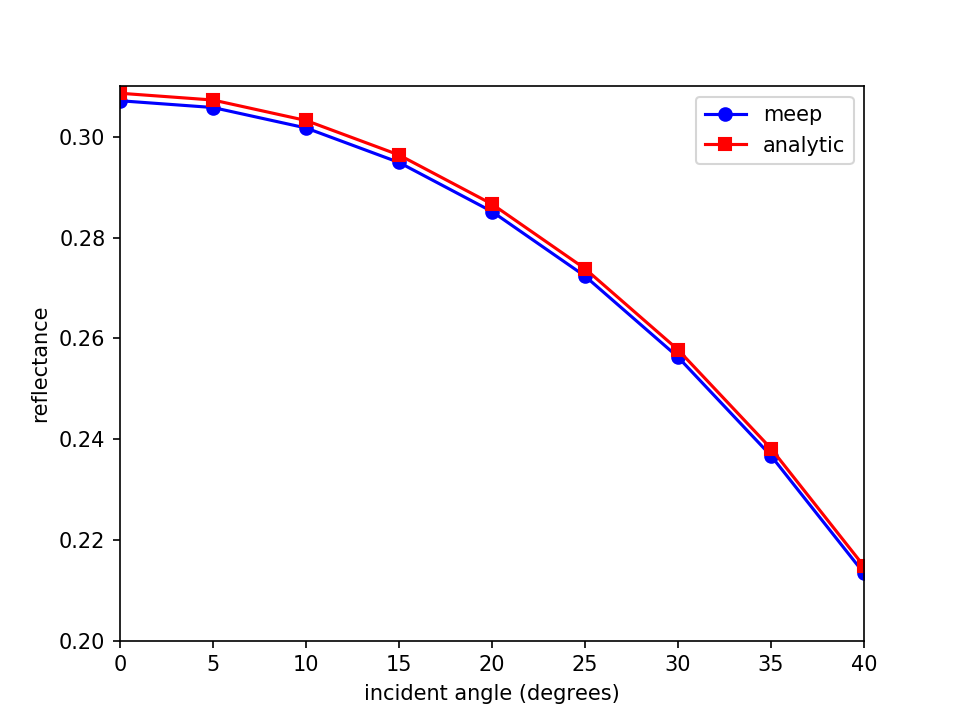
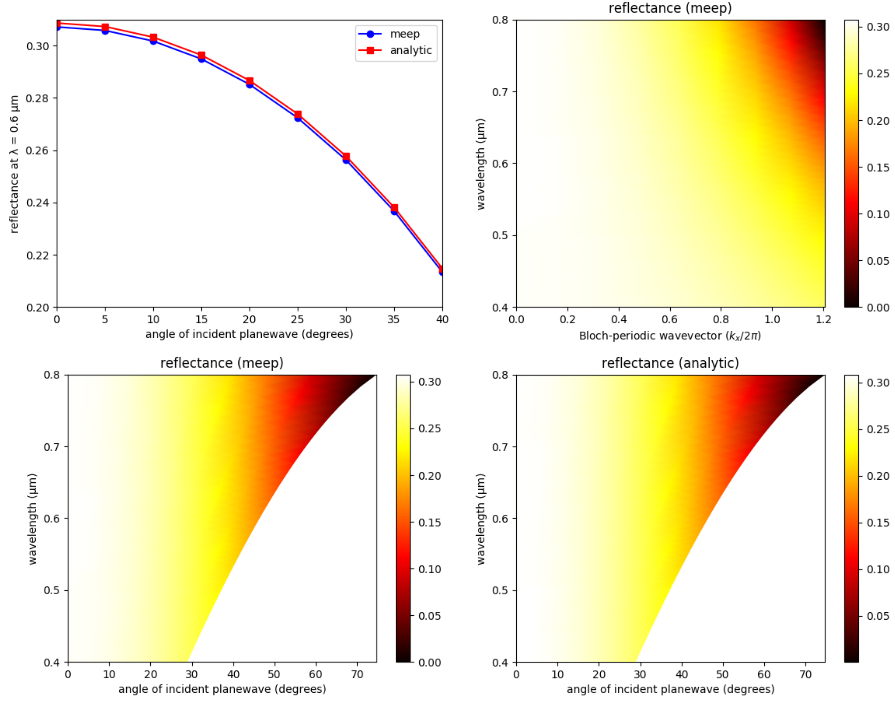
update angular reflectance spectrum tutorial

diff --git a/python/examples/refl-angular.py b/python/examples/refl-angular.py
@@ -7,14 +7,19 @@ def main(args):
     resolution = args.res
 
     dpml = 1.0
-    sz = args.sz + 2*dpml
+    sz = 10
+    sz = 10 + 2*dpml
     cell_size = mp.Vector3(0,0,sz)
     pml_layers = [ mp.PML(dpml) ]
-    
-    wvl_cen = 0.6
-    fcen = 1/wvl_cen
-    df = 0.2*fcen
 
+    wvl_min = 0.4
+    wvl_max = 0.8
+    fmin = 1/wvl_max
+    fmax = 1/wvl_min
+    fcen = 0.5*(fmin+fmax)
+    df = fmax-fmin
+    nfreq = 50
+    
     # rotation angle of source: CCW relative to y axis
     theta_r = math.radians(args.theta)
 
@@ -36,7 +41,7 @@ def main(args):
                         resolution=resolution)
 
     refl_fr = mp.FluxRegion(center=mp.Vector3(0,0,-0.25*sz))
-    refl = sim.add_flux(fcen, 0, 1, refl_fr)
+    refl = sim.add_flux(fcen, df, nfreq, refl_fr)
     
     sim.run(until_after_sources=mp.stop_when_fields_decayed(50, mp.Ex, mp.Vector3(0,0,-0.5*sz+dpml), 1e-9))
 
@@ -54,19 +59,20 @@ def main(args):
                         dimensions=dimensions,
                         resolution=resolution)
 
-    refl = sim.add_flux(fcen, 0, 1, refl_fr)
+    refl = sim.add_flux(fcen, df, nfreq, refl_fr)
     sim.load_minus_flux_data(refl, empty_data)
 
     sim.run(until_after_sources=mp.stop_when_fields_decayed(50, mp.Ex, mp.Vector3(0,0,-0.5*sz+dpml), 1e-9))
 
     refl_flux = mp.get_fluxes(refl)
-
-    print("refl:, {}, {}".format(args.theta,-refl_flux[0]/empty_flux[0]))
+    freqs = mp.get_flux_freqs(refl)
+    
+    for i in range(0,nfreq):
+        print("refl:, {}, {}, {}, {}".format(k.x,freqs[i],math.degrees(math.asin(k.x/freqs[i])),-refl_flux[i]/empty_flux[i]))
     
 if __name__ == '__main__':
     parser = argparse.ArgumentParser()
     parser.add_argument('-res', type=int, default=200, help='resolution (default: 200 pixels/um)')
-    parser.add_argument('-sz', type=float, default=10, help='cell size (default: 10 um)')
     parser.add_argument('-theta', type=float, default=0, help='angle of incident planewave (default: 0 degrees)')
     args = parser.parse_args()
     main(args)

diff --git a/doc/docs/Python_Tutorials/Basics.md b/doc/docs/Python_Tutorials/Basics.md
@@ -424,11 +424,13 @@ Again, we must run both simulations in order to get the normalization right. The
 Angular Reflectance Spectrum of a Planar Interface
 --------------------------------------------------
 
-We turn to a similar but slightly different example for which there exists an analytic solution via the [Fresnel equations](https://en.wikipedia.org/wiki/Fresnel_equations): computing the reflectance at a single wavelength of a planar, air-dielectric interface for an incident planewave source over a range of angles. Similar to the previous example, we will need to run two simulations: (1) an empty computational cell (n=1 everywhere) to obtain the incident flux, and (2) with the dielectric interface (n=3.5) to obtain the reflected flux. Each angle of the incident source requires a separate set of simulations.
+We turn to a similar but slightly different example for which there exists an analytic solution via the [Fresnel equations](https://en.wikipedia.org/wiki/Fresnel_equations): computing the broadband reflectance of a planar air-dielectric interface for an incident planewave over a range of angles. Similar to the previous example, we will need to run two simulations: (1) an empty computational cell with air/vacuum everywhere to obtain the incident flux, and (2) with the dielectric (n=3.5) interface to obtain the reflected flux. Each angle of the incident planewave source requires a separate set of simulations.
 
-A 1d computational cell must be used since a higher-dimensional cell will introduce [artificial modes due to band folding](../FAQ/#why-are-there-strange-peaks-in-my-reflectancetransmittance-spectrum-when-modeling-planar-or-periodic-structures). In Meep, a 1d cell must be along the $z$ direction with only the $E_x$ and $H_y$ field components permitted. We will use a Gaussian source with center frequency ω corresponding to a wavelength of 0.6 μm at which we will compute the reflectance. Unlike a [continuous-wave](../Python_User_Interface/#continuoussource) (CW) source, a pulsed source turns off. This enables a termination condition of when there are no fields left in the computational cell (due to absorption by the PMLs) via the [run function](../Python_User_Interface/#run-functions) `stop_when_fields_decayed`.
+A 1d computational cell must be used since a higher-dimensional cell will introduce [artificial modes due to band folding](../FAQ/#why-are-there-strange-peaks-in-my-reflectancetransmittance-spectrum-when-modeling-planar-or-periodic-structures). In Meep, a 1d cell must be along the $z$ direction with only the $E_x$ and $H_y$ field components permitted. We will use a Gaussian source spanning visible wavelengths of 0.4 to 0.8 μm. Unlike a [continuous-wave](../Python_User_Interface/#continuoussource) (CW) source, a pulsed source turns off. This enables a termination condition of when there are no fields left in the computational cell (due to absorption by the PMLs) via the [run function](../Python_User_Interface/#run-functions) `stop_when_fields_decayed`, similar again to the previous example.
 
-Creating an oblique planewave source typically requires specifying two parameters: (1) the Bloch-periodic wavevector $\vec{k}$ via `k_point`, and (2) the source amplitude function `amp_func` to set the $e^{i\vec{k} \cdot \vec{r}}$ spatial dependence (for position vector $\vec{r}$). Since this is a 1d simulation and the source is just a single pixel, it is not necessary to specify the source amplitude (for reference, see this [2d example](https://github.com/stevengj/meep/blob/master/python/examples/pw-source.py)). The Bloch-periodic wavevector is specified according to the dispersion relation for a planewave in a homogeneous medium (with index n): $\omega=c|\vec{k}|/n$. As the source in this example is incident from air, the magnitude of the wavevector is simply equal to ω (in Meep, this excludes the 2π factor). Note that [any broadband source is incident at a given angle for only a *single* frequency component](../FAQ/#how-do-i-set-up-an-oblique-planewave-source). Computing the reflectance at multiple angles therefore requires separate simulations. The plane of incidence which contains $\vec{k}$ and the surface normal vector is $xz$. The source angle is defined in degrees counterclockwise (CCW) relative to the $y$ axis. In this configuration, a current source with $E_x$ polarization lies in the plane of incidence and corresponds to the convention of $P$-polarization.
+Creating an oblique planewave source typically requires specifying two parameters: (1) for periodic structures, the Bloch-periodic wavevector $\vec{k}$ via `k_point`, and (2) the source amplitude function `amp_func` for setting the $e^{i\vec{k} \cdot \vec{r}}$ spatial dependence ($\vec{r}$ is the position vector). Since we have a 1d cell and the source is at a single point, it is not necessary to specify the source amplitude (see this [2d example](https://github.com/stevengj/meep/blob/master/python/examples/pw-source.py) for how this is done). The magnitude of the Bloch-periodic wavevector is specified according to the dispersion relation formula for a planewave in homogeneous media with index n: $\omega=c|\vec{k}|/n$. As the source in this example is incident from air, $|\vec{k}|$ is simply equal to the frequency ω (in Meep, this excludes the 2π factor). Note that a fixed wavevector is only applicable to a single frequency. Thus any broadband source is incident at a given angle for only a *single* frequency. This is described in more detail in Section 4.5 ("Efficiency Frequency-Angle Coverage") in [Chapter 4](https://arxiv.org/abs/1301.5366) ("Electromagnetic Wave Source Conditions") of the book [Advances in FDTD Computational Electrodynamics: Photonics and Nanotechnology](https://www.amazon.com/Advances-FDTD-Computational-Electrodynamics-Nanotechnology/dp/1608071707).
+
+In this example, the plane of incidence which contains $\vec{k}$ and the surface normal vector is $xz$. The source angle is defined in degrees in the counterclockwise (CCW) direction around the $y$ axis with 0 degrees along the +$z$ axis. A current source with $E_x$ polarization lies in the plane of incidence and corresponds to the convention of $P$-polarization.
 
 The simulation script is below and in [refl-angular.py](https://github.com/stevengj/meep/blob/master/python/examples/refl-angular.py)
 
@@ -442,14 +444,19 @@ def main(args):
     resolution = args.res
 
     dpml = 1.0
-    sz = args.sz + 2*dpml
+    sz = 10
+    sz = 10 + 2*dpml
     cell_size = mp.Vector3(0,0,sz)
     pml_layers = [ mp.PML(dpml) ]
-    
-    wvl_cen = 0.6
-    fcen = 1/wvl_cen
-    df = 0.2*fcen
 
+    wvl_min = 0.4
+    wvl_max = 0.8
+    fmin = 1/wvl_max
+    fmax = 1/wvl_min
+    fcen = 0.5*(fmin+fmax)
+    df = fmax-fmin
+    nfreq = 50
+    
     # rotation angle of source: CCW relative to y axis
     theta_r = math.radians(args.theta)
 
@@ -471,7 +478,7 @@ def main(args):
                         resolution=resolution)
 
     refl_fr = mp.FluxRegion(center=mp.Vector3(0,0,-0.25*sz))
-    refl = sim.add_flux(fcen, 0, 1, refl_fr)
+    refl = sim.add_flux(fcen, df, nfreq, refl_fr)
     
     sim.run(until_after_sources=mp.stop_when_fields_decayed(50, mp.Ex, mp.Vector3(0,0,-0.5*sz+dpml), 1e-9))
 
@@ -489,69 +496,103 @@ def main(args):
                         dimensions=dimensions,
                         resolution=resolution)
 
-    refl = sim.add_flux(fcen, 0, 1, refl_fr)
+    refl = sim.add_flux(fcen, df, nfreq, refl_fr)
     sim.load_minus_flux_data(refl, empty_data)
 
     sim.run(until_after_sources=mp.stop_when_fields_decayed(50, mp.Ex, mp.Vector3(0,0,-0.5*sz+dpml), 1e-9))
 
     refl_flux = mp.get_fluxes(refl)
-
-    print("refl:, {}, {}".format(args.theta,-refl_flux[0]/empty_flux[0]))
+    freqs = mp.get_flux_freqs(refl)
+    
+    for i in range(0,nfreq):
+        print("refl:, {}, {}, {}, {}".format(k.x,freqs[i],math.degrees(math.asin(k.x/freqs[i])),-refl_flux[i]/empty_flux[i]))
     
 if __name__ == '__main__':
     parser = argparse.ArgumentParser()
     parser.add_argument('-res', type=int, default=200, help='resolution (default: 200 pixels/um)')
-    parser.add_argument('-sz', type=float, default=10, help='cell size (default: 10 um)')
     parser.add_argument('-theta', type=float, default=0, help='angle of incident planewave (default: 0 degrees)')
     args = parser.parse_args()
     main(args)
 ```
 
-The simulation script above computes and prints to standard output the reflectance at a single, fixed wavelength. There are three argument parameters which can be passed to the script at runtime: the resolution of the grid, the size of the computational cell (excluding the PMLs), and the angle of the incident planwave source. The following Bash shell script runs the simulation for the wavelength range of 0$^\circ$ to 40$^\circ$ in increments of 5$^\circ$, pipes the output to a file, and extracts the reflectance data into a separate file.
+The simulation script above computes and prints to standard output the reflectance at each frequency. Also included in the output is the wavevector component $k_x$ (the $k_z$ component is irrelevant since it is in the direction of the PML) and the corresponding angle for the ($k_x$, ω) pair: for those frequencies not equal to the center frequency of the source, this is *not* the same as the angle of the incident planewave, but rather $sin^{-1}(k_x/\omega)$. There are two argument parameters which can be passed to the script at runtime: the resolution of the grid and the angle of the incident planwave.
+
+The following Bash shell script runs the simulation for the wavelength range of 0$^\circ$ to 40$^\circ$ in increments of 5$^\circ$. For each run, the script pipes the output to one file and extracts the reflectance data to another file.
 
 ```sh
 #!/bin/bash
 
 for i in `seq 0 5 40`; do
-    python refl1d.py -theta $i |tee -a flux.out;
+    python refl-angular.py -theta $i |tee -a flux_t${i}.out;
+    grep refl: flux_t${i}.out |cut -d , -f2- > flux_t${i}.dat
 done
-
-grep refl: flux.out |cut -d , -f2- > flux.dat
 ```
 
-A plot of the angular reflectance spectrum based on the simulated data and the analytic [Fresnel equations](https://en.wikipedia.org/wiki/Fresnel_equations) is generated using the Python script below. The plot is shown in the accompanying figure. There is agreement between the simulated and analytic results. 
+Two-dimensional plots of the angular reflectance spectrum based on the simulated data and the analytic [Fresnel equations](https://en.wikipedia.org/wiki/Fresnel_equations) are generated using the Python script below. The plots are shown in the accompanying figure. The top left inset shows the simulated and analytic reflectance spectra at a wavelength of 0.6 μm. The top right inset shows the simulated reflectance spectrum with the Bloch-periodic wavevector used in the simulation: $R(\lambda, k_x)$. The lower left inset is a transformation of $R(\lambda, k_x)$ into $R(\lambda, \theta)$. Note how the range of angles depends on the wavelength. The lower right inset is the analytic reflectance spectrum computed using the Fresnel equations based on the θ values from the previous inset. There is agreement between the simulated and analytic results.
 
 ```py
 import numpy as np
 import matplotlib.pyplot as plt
 import math
 
-f = np.genfromtxt("flux.dat", delimiter=",")
+theta_in = np.arange(0,45,5)
+kxs = np.empty((50, theta_in.size))
+thetas = np.empty((50, theta_in.size))
+Rmeep = np.empty((50, theta_in.size))
 
-thetas = f[:,0]
-R_meep = f[:,1]
+for j in range(0,theta_in.size):
+  f = np.genfromtxt("flux_t{}.dat".format(theta_in[j]), delimiter=",")
+  kxs[:,j] = f[:,0]
+  thetas[:,j] = f[:,2]
+  Rmeep[:,j] = f[:,3]
+  
+import numpy.matlib  
+wvl = 1./f[:,1]
+wvls = np.matlib.repmat(np.reshape(wvl, (wvl.size,1)),1,theta_in.size)
+
+plt.figure(dpi=100)
+plt.pcolormesh(kxs,wvls,Rmeep,cmap='hot',shading='gouraud')
+plt.axis([kxs[0,0], kxs[0,-1], wvl[-1], wvl[0]])
+plt.yticks([t for t in np.arange(0.4,0.9,0.1)])
+plt.xlabel("Bloch-periodic wavevector ($k_x/2π$)")
+plt.ylabel("wavelength (μm)")
+plt.title("reflectance (meep)")
+plt.colorbar()
+plt.show()
+
+plt.figure(dpi=100)
+plt.pcolormesh(thetas,wvls,Rmeep,cmap='hot',shading='gouraud')
+plt.axis([thetas.min(), thetas.max(), wvl[-1], wvl[0]])
+plt.yticks([t for t in np.arange(0.4,0.9,0.1)])
+plt.xlabel("angle of incident planewave (degrees)")
+plt.ylabel("wavelength (μm)")
+plt.title("reflectance (meep)")
+plt.colorbar()
+plt.show()
 
 n1=1
 n2=3.5
-
 theta_out = lambda theta_in: math.asin(n1*math.sin(theta_in)/n2)
-
 # P polarization
-R_fresnel = lambda theta_in: math.fabs((n1*math.cos(theta_out(theta_in))-n2*math.cos(theta_in))/(n1*math.cos(theta_out(theta_in))+n2*math.cos(theta_in)))**2
+Rfresnel = lambda theta_in: math.fabs((n1*math.cos(theta_out(theta_in))-n2*math.cos(theta_in))/(n1*math.cos(theta_out(theta_in))+n2*math.cos(theta_in)))**2
 
-R_analytic = [ R_fresnel(math.radians(i)) for i in thetas ]
+Ranalytic = np.empty((50, theta_in.size))
+for m in range(0,wvl.size):
+    for n in range(0,theta_in.size):
+        Ranalytic[m,n] = Rfresnel(math.radians(thetas[m,n]))
 
-plt.plot(thetas,R_meep,'bo-',label='meep')
-plt.plot(thetas,R_analytic,'rs-',label='analytic')
-plt.xlabel("incident angle (degrees)")
-plt.ylabel("reflectance")
-plt.axis([0, 40, 0.20, 0.31])
-plt.legend(loc='upper right')
+plt.figure(dpi=100)        
+plt.pcolormesh(thetas,wvls,Ranalytic,cmap='hot',shading='gouraud')
+plt.axis([thetas.min(), thetas.max(), wvl[-1], wvl[0]])
+plt.yticks([t for t in np.arange(0.4,0.9,0.1)])
+plt.xlabel("angle of incident planewave (degrees)")
+plt.ylabel("wavelength (μm)")
+plt.title("reflectance (analytic)")
+plt.colorbar()
 plt.show()
 ```
 
 <center>![](../images/reflectance_angle_spectrum.png)</center>
-
 
 Modes of a Ring Resonator
 -------------------------

diff --git a/doc/docs/Scheme_Tutorials/Basics.md b/doc/docs/Scheme_Tutorials/Basics.md
@@ -400,11 +400,13 @@ Again, we must run both simulations in order to get the normalization right. The
 Angular Reflectance Spectrum of a Planar Interface
 --------------------------------------------------
 
-We turn to a similar but slightly different example for which there exists an analytic solution via the [Fresnel equations](https://en.wikipedia.org/wiki/Fresnel_equations): computing the reflectance at a single wavelength of a planar, air-dielectric interface for an incident planewave source over a range of angles. Similar to the previous example, we will need to run two simulations: (1) an empty computational cell (n=1 everywhere) to obtain the incident flux, and (2) with the dielectric interface (n=3.5) to obtain the reflected flux. Each angle of the incident source requires a separate set of simulations.
+We turn to a similar but slightly different example for which there exists an analytic solution via the [Fresnel equations](https://en.wikipedia.org/wiki/Fresnel_equations): computing the broadband reflectance of a planar air-dielectric interface for an incident planewave over a range of angles. Similar to the previous example, we will need to run two simulations: (1) an empty computational cell with air/vacuum everywhere to obtain the incident flux, and (2) with the dielectric (n=3.5) interface to obtain the reflected flux. Each angle of the incident planewave source requires a separate set of simulations.
 
-A 1d computational cell must be used since a higher-dimensional cell will introduce [artificial modes due to band folding](../FAQ/#why-are-there-strange-peaks-in-my-reflectancetransmittance-spectrum-when-modeling-planar-or-periodic-structures). In Meep, a 1d cell must be along the $z$ direction with only the $E_x$ and $H_y$ field components permitted. We will use a Gaussian source with center frequency ω corresponding to a wavelength of 0.6 μm at which we will compute the reflectance. Unlike a [continuous-wave](../Scheme_User_Interface/#source) (CW) source, a pulsed source turns off. This enables a termination condition of when there are no fields left in the computational cell (due to absorption by the PMLs) via the [run function](../Scheme_User_Interface/#run-functions) `stop-when-fields-decayed`.
+A 1d computational cell must be used since a higher-dimensional cell will introduce [artificial modes due to band folding](../FAQ/#why-are-there-strange-peaks-in-my-reflectancetransmittance-spectrum-when-modeling-planar-or-periodic-structures). In Meep, a 1d cell must be along the $z$ direction with only the $E_x$ and $H_y$ field components permitted. We will use a Gaussian source spanning visible wavelengths of 0.4 to 0.8 μm. Unlike a [continuous-wave](../Scheme_User_Interface/#source) (CW) source, a pulsed source turns off. This enables a termination condition of when there are no fields left in the computational cell (due to absorption by the PMLs) via the [run function](../Scheme_User_Interface/#run-functions) `stop-when-fields-decayed`, similar again to the previous example.
 
-Creating an oblique planewave source typically requires specifying two parameters: (1) the Bloch-periodic wavevector $\vec{k}$ via `k-point`, and (2) the source amplitude fucntion `amp_func` to set the $e^{i\vec{k} \cdot \vec{r}}$ spatial dependence (for position vector $\vec{r}$). Since this is a 1d simulation and the source is just a single pixel, it is not necessary to specify the source amplitude (for reference, see this [2d example](https://github.com/stevengj/meep/blob/master/scheme/examples/pw-source.ctl)). The Bloch-periodic wavevector is specified according to the dispersion relation for a planewave in a homogeneous medium (with index n): $\omega=c|\vec{k}|/n$. As the source in this example is incident from air, the magnitude of the wavevector is simply equal to ω (in Meep, this excludes the 2π factor). Note that [any broadband source is incident at a given angle for only a *single* frequency component](../FAQ/#how-do-i-set-up-an-oblique-planewave-source). Computing the reflectance at multiple angles therefore requires separate simulations. The plane of incidence which contains $\vec{k}$ and the surface normal vector is $xz$. The source angle is defined in degrees counterclockwise (CCW) relative to the $y$ axis. In this configuration, a current source with $E_x$ polarization lies in the plane of incidence corresponds to the convention of $P$-polarization.
+Creating an oblique planewave source typically requires specifying two parameters: (1) for periodic structures, the Bloch-periodic wavevector $\vec{k}$ via `k-point`, and (2) the source amplitude function `amp-func` for setting the $e^{i\vec{k} \cdot \vec{r}}$ spatial dependence ($\vec{r}$ is the position vector). Since we have a 1d cell and the source is at a single point, it is not necessary to specify the source amplitude (see this [2d example](https://github.com/stevengj/meep/blob/master/scheme/examples/pw-source.ctl) for how this is done). The magnitude of the Bloch-periodic wavevector is specified according to the dispersion relation formula for a planewave in homogeneous media with index n: $\omega=c|\vec{k}|/n$. As the source in this example is incident from air, $|\vec{k}|$ is simply equal to the frequency ω (in Meep, this excludes the 2π factor). Note that a fixed wavevector is only applicable to a single frequency. Thus any broadband source is incident at a given angle for only a *single* frequency. This is described in more detail in Section 4.5 ("Efficiency Frequency-Angle Coverage") in [Chapter 4](https://arxiv.org/abs/1301.5366) ("Electromagnetic Wave Source Conditions") of the book [Advances in FDTD Computational Electrodynamics: Photonics and Nanotechnology](https://www.amazon.com/Advances-FDTD-Computational-Electrodynamics-Nanotechnology/dp/1608071707).
+
+In this example, the plane of incidence which contains $\vec{k}$ and the surface normal vector is $xz$. The source angle is defined in degrees in the counterclockwise (CCW) direction around the $y$ axis with 0 degrees along the +$z$ axis. A current source with $E_x$ polarization lies in the plane of incidence and corresponds to the convention of $P$-polarization.
 
 The simulation script is below and in [refl-angular.ctl](https://github.com/stevengj/meep/blob/master/scheme/examples/refl-angular.ctl)
 
@@ -418,9 +420,13 @@ The simulation script is below and in [refl-angular.ctl](https://github.com/stev
 
 (set! geometry-lattice (make lattice (size no-size no-size sz)))
 
-(define lambda-cen 0.6)
-(define fcen (/ lambda-cen))
-(define df (* 0.2 fcen))
+(define-param wvl-min 0.4)
+(define-param wvl-max 0.8)
+(define fmin (/ wvl-max))
+(define fmax (/ wvl-min))
+(define fcen (* 0.5 (+ fmin fmax)))
+(define df (- fmax fmin))
+(define-param nfreq 50)
 
 ; rotation angle of source: CCW relative to y axis
 (define-param theta 0)
@@ -432,14 +438,14 @@ The simulation script is below and in [refl-angular.ctl](https://github.com/stev
 (set! k-point (vector3* fcen (vector3 (sin theta-r) 0 (cos theta-r))))
 
 (set! sources (list (make source (src (make gaussian-src (frequency fcen) (fwidth df)))
-                                 (component Ex) (center 0 0 (+ (* -0.5 sz) dpml)))))
+			         (component Ex) (center 0 0 (+ (* -0.5 sz) dpml)))))
 
 (define-param empty? true)
 
 (if (not empty?)
     (set! geometry (list (make block (size infinity infinity (* 0.5 sz)) (center 0 0 (* 0.25 sz)) (material (make medium (index 3.5)))))))
 
-(define refl (add-flux fcen 0 1 (make flux-region (center 0 0 (* -0.25 sz)))))
+(define refl (add-flux fcen df nfreq (make flux-region (center 0 0 (* -0.25 sz)))))
 
 (if (not empty?) (load-minus-flux "refl-flux" refl))
 
@@ -450,41 +456,73 @@ The simulation script is below and in [refl-angular.ctl](https://github.com/stev
 (display-fluxes refl)
 ```
 
-The simulation script above computes and prints to standard output the incident/reflected flux at a single wavelength. The following Bash shell script runs the pair of simulations for the wavelength range of 0$^\circ$ to 40$^\circ$ in increments of 5$^\circ$, pipes the output to a file, and extracts the flux data into a separate file.
+The simulation script above computes and prints to standard output the reflectance at each frequency. Also included in the output is the wavevector component $k_x$ (the $k_z$ component is irrelevant since it is in the direction of the PML) and the corresponding angle for the ($k_x$, ω) pair: for those frequencies not equal to the center frequency of the source, this is *not* the same as the angle of the incident planewave, but rather $sin^{-1}(k_x/\omega)$.
+
+The following Bash shell script runs the simulation for the wavelength range of 0$^\circ$ to 40$^\circ$ in increments of 5$^\circ$. For each run, the script pipes the output to one file and extracts the reflectance data to another file.
 
 ```sh
 #!/bin/bash
 
 for i in `seq 0 5 40`; do
-   meep empty?=true theta=${i} refl-angular.ctl |tee -a flux0.out;
-   meep empty?=false theta=${i} refl-angular.ctl |tee -a flux.out;
+    meep empty?=true theta=${i} refl-angular.ctl |tee -a flux0_t${i}.out;
+    grep flux1: flux0_t${i}.out |cut -d , -f2- > flux0_t${i}.dat
+    meep empty?=false theta=${i} refl-angular.ctl |tee -a flux_t${i}.out;
+    grep flux1: flux_t${i}.out |cut -d , -f2- > flux_t${i}.dat
 done
-
-grep flux1: flux0.out |cut -d , -f3 > flux0.dat
-grep flux1: flux.out |cut -d , -f3 > flux.dat
 ```
 
-A plot of the angular reflectance spectrum based on the simulated data and the analytic [Fresnel equations](https://en.wikipedia.org/wiki/Fresnel_equations) is generated using the Octave/Matlab script below. The plot is shown in the accompanying figure. There is agreement between the simulated and analytic results.
+Two-dimensional plots of the angular reflectance spectrum based on the simulated data and the analytic [Fresnel equations](https://en.wikipedia.org/wiki/Fresnel_equations) are generated using the Octave/Matlab script below. The plots are shown in the accompanying figure. The top left inset shows the simulated and analytic reflectance spectra at a wavelength of 0.6 μm. The top right inset shows the simulated reflectance spectrum with the Bloch-periodic wavevector used in the simulation: $R(\lambda, k_x)$. The lower left inset is a transformation of $R(\lambda, k_x)$ into $R(\lambda, \theta)$. Note how the range of angles depends on the wavelength. The lower right inset is the analytic reflectance spectrum computed using the Fresnel equations based on the θ values from the previous inset. There is agreement between the simulated and analytic results.
 
 ```matlab
-f0 = load("flux0.dat");
-f = load("flux.dat");
-R = -f./f0;
+theta_in = [ 0:5:40 ];
+Rmeep = [];
+for j = 1:length(theta_in)
+  f0 = dlmread(sprintf("flux0_t%d.dat",theta_in(j)),',');
+  f = dlmread(sprintf("flux_t%d.dat",theta_in(j)),',');
+  Rmeep = [ Rmeep -f(:,2)./f0(:,2) ];
+endfor
+
+freqs = f(:,1);
+wvl = 1./freqs;
+wvls = repmat(wvl,1,length(theta_in));
+
+wvl_min = 0.4;
+wvl_max = 0.8;
+fcen = (1/wvl_min+1/wvl_max)/2;
+kx = fcen*sind(theta_in);
+kxs = repmat(kx,length(wvl),1);
+thetas = asind(kxs./freqs);
+
+figure;
+pcolor(kxs,wvls,Rmeep);
+shading interp; c = colormap("hot"); colormap(c); colorbar;
+eval(sprintf("axis([%0.2g %0.2g %0.2g %0.2g])",kxs(1,1),kxs(1,end),wvl(end),wvl(1)));
+xlabel("wavevector of Bloch-Periodic boundary condition (k_x/2π)");
+ylabel("wavelength (μm)");
+title("reflectance (meep)");
+
+figure;
+pcolor(thetas,wvls,Rmeep);
+shading interp; c = colormap("hot"); colormap(c); colorbar;
+eval(sprintf("axis([%0.2g %0.2g %0.2g %0.2g])",min(min(thetas)),max(max(thetas)),wvl(end),wvl(1)));
+xlabel("angle of incident planewave (degrees)");
+ylabel("wavelength (μm)");
+title("reflectance (meep)");
 
 n1 = 1;
 n2 = 3.5;
-
 theta_out = @(theta_in) asin(n1*sin(theta_in)/n2);
-
 # P polarization
 R_fresnel = @(theta_in) abs((n1*cos(theta_out(theta_in))-n2*cos(theta_in))./(n1*cos(theta_out(theta_in))+n2*cos(theta_in))).^2;
+Ranalytic = R_fresnel(thetas*pi/180);
 
-thetas = [ 0:5:40 ];
-plot(thetas,R,'bo-',thetas,R_fresnel(thetas*pi/180),'rs-');
-xlabel("incident angle (degrees)");
-ylabel("reflectance");
-axis([0 40 0.20 0.31]);
-legend("meep","analytic","location","northeast");
+figure;
+pcolor(thetas,wvls,Ranalytic);
+shading interp; c = colormap("hot"); colormap(c); colorbar;
+eval(sprintf("axis([%0.2g %0.2g %0.2g %0.2g])",min(min(thetas)),max(max(thetas)),wvl(end),wvl(1)));
+xlabel("angle of incident planewave (degrees)");
+ylabel("wavelength (μm)");
+title("reflectance (analytic)");
 ```
 
 <center>![](../images/reflectance_angle_spectrum.png)</center>

diff --git a/doc/docs/FAQ.md b/doc/docs/FAQ.md
@@ -143,7 +143,7 @@ Meep contains a [mode-decomposition feature](Mode_Decomposition) which can be us
 
 ### When outputting the dielectric function to a file, I don't see any dispersive materials
 
-Only the real, frequency-independent part of ε/μ is written out to an HDF5 file. As an example, any of the disperive materials in the [materials library](Materials/#materials-library) which have a broadband, complex, refractive index will appear as ε=1 in the output file. Thus, in order to visually verify the material geometry, etc., you may have to adjust the `epsilon` value.
+Only the real, frequency-independent part of ε/μ is written out to an HDF5 file. As an example, any of the dispersive materials in the [materials library](Materials/#materials-library) which have a broadband, complex, refractive index will appear as ε=1 in the output file. Thus, in order to visually verify the material geometry, etc., you may have to adjust the `epsilon` value.
 
 ### Does Meep support a non-uniform grid?
 

diff --git a/doc/docs/index.md b/doc/docs/index.md
@@ -16,7 +16,7 @@
 -   Exploitation of **symmetries** to reduce the computation size: even/odd mirror planes and 90°/180° rotations.
 -   Field output in the [HDF5](https://en.wikipedia.org/wiki/HDF5) data format.
 -   Arbitrary current sources including a guided-mode launcher.
--   Materials library containing list of predefined broadband, complex, refractive indices.
+-   Materials library containing list of predefined broadband, complex refractive indices.
 -   Frequency-domain solver for finding the response to a continuous-wave source.
 -   Field analyses including flux spectra, near to far transformations, modal decomposition, frequency extraction, local density of states, modal volume, Maxwell stress tensor, arbitrary functions; completely programmable.
 
